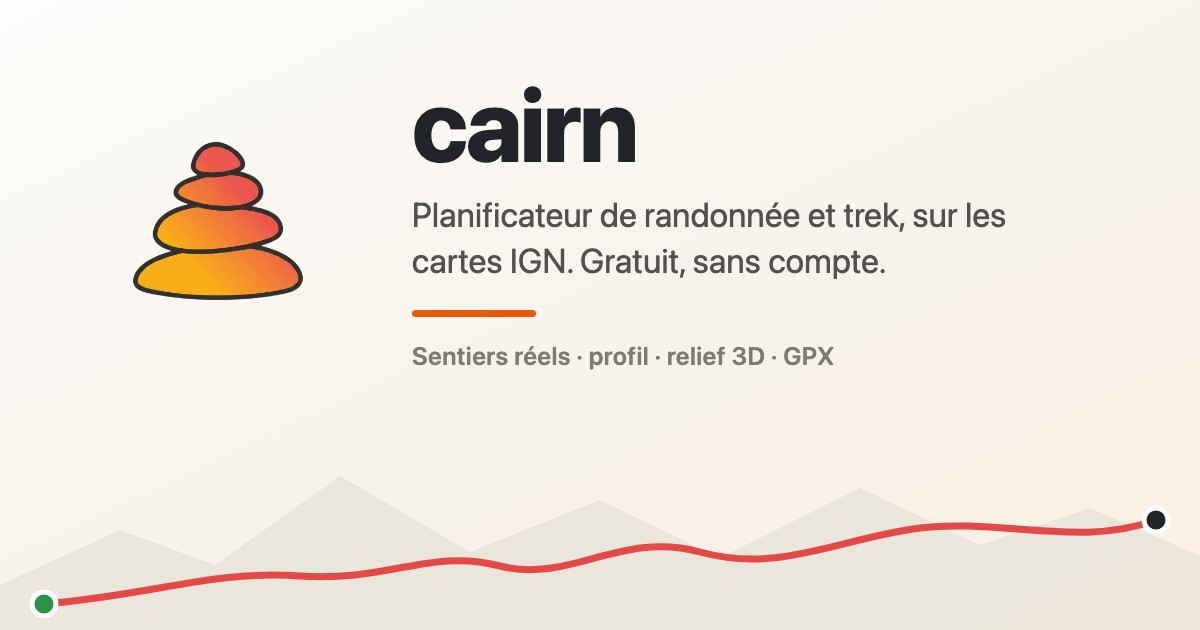
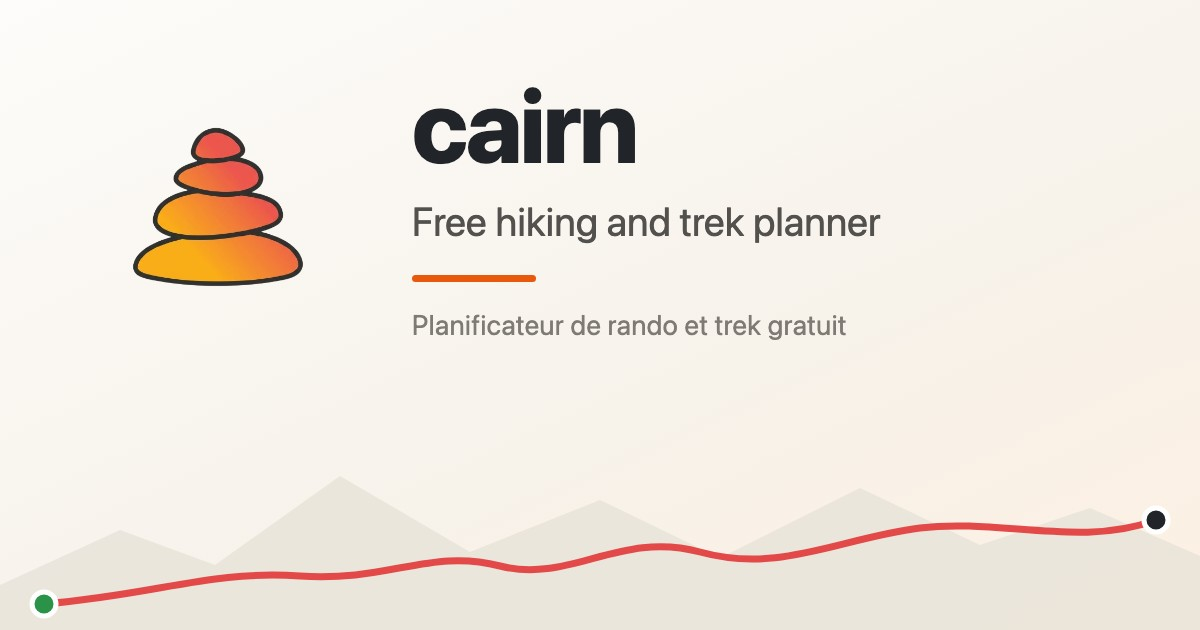
copy: english first on the site preview card, one short line per language

diff --git a/index.html b/index.html
@@ -7,16 +7,16 @@
     <meta name="viewport" content="width=device-width, initial-scale=1.0" />
     <meta
       name="description"
-      content="Planificateur de randonnée et trek, gratuit et open data"
+      content="Free hiking and trek planner · Planificateur de rando et trek gratuit"
     />
     <title>Planificateur de rando</title>
     <!-- a shared route replaces these with its own name, stats and tile (see api/s.ts) -->
     <meta property="og:type" content="website" />
     <meta property="og:site_name" content="cairn" />
-    <meta property="og:title" content="cairn · planificateur de randonnée" />
+    <meta property="og:title" content="cairn · free hiking and trek planner" />
     <meta
       property="og:description"
-      content="Planificateur de randonnée et trek, gratuit et open data"
+      content="Plan a route that follows real trails, on official IGN maps. No account, open data."
     />
     <meta
       property="og:image"

diff --git a/tests/unit/sharePage.test.ts b/tests/unit/sharePage.test.ts
@@ -31,7 +31,7 @@ describe('sharePage', () => {
       expect(html.split(tag)).toHaveLength(2);
     }
     // the generic tags the static page carries must not compete with the route own
-    expect(html).not.toContain('cairn · planificateur');
+    expect(html).not.toContain('free hiking and trek planner');
     expect(html).not.toContain('vercel.app/og.jpg');
   });
 
